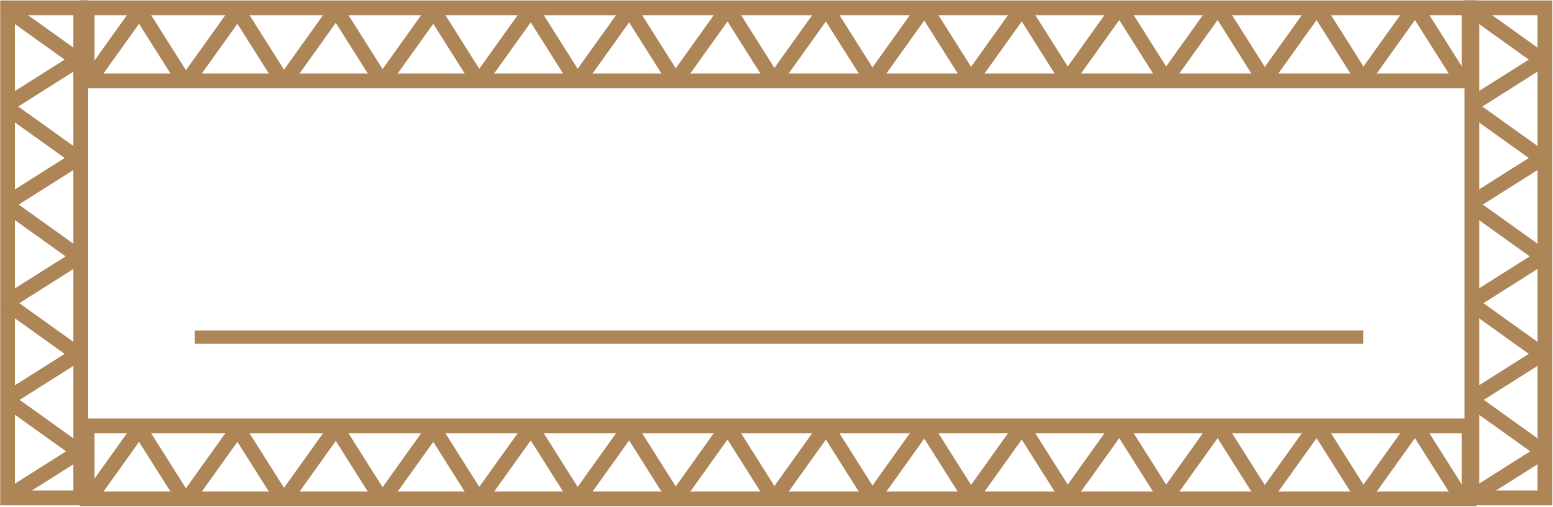
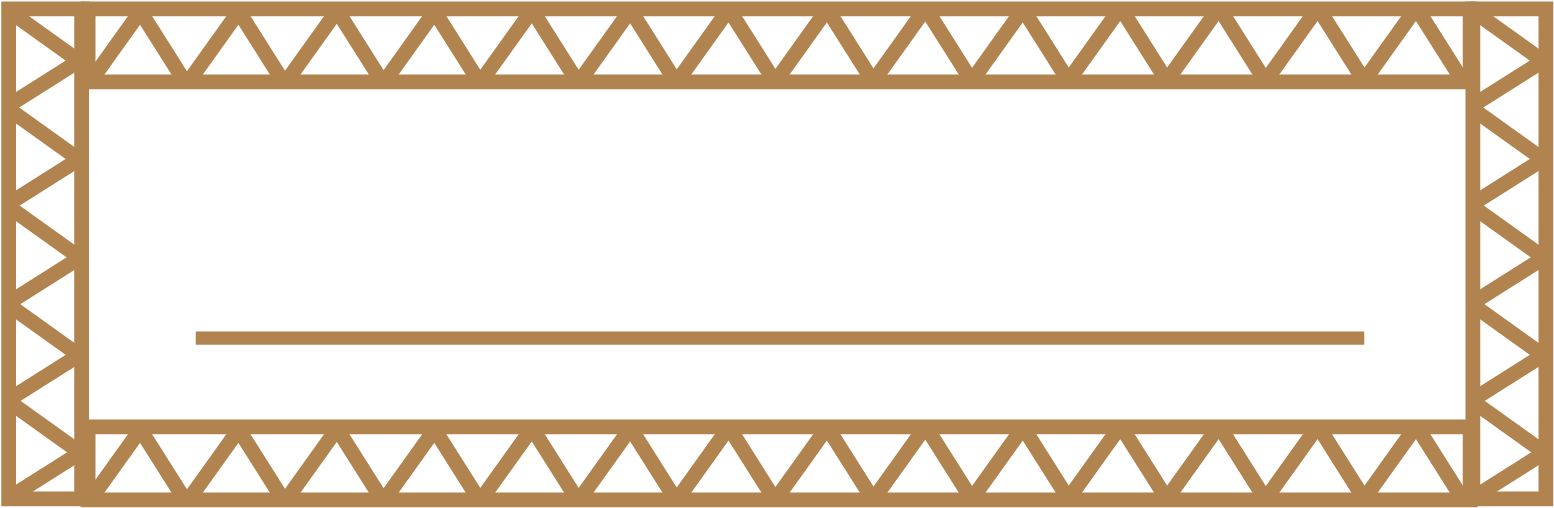
Update geral na homepage
Corrigi a homepage para que fique responsiva como o fundo do nível1

diff --git a/homepage.html b/homepage.html
@@ -13,19 +13,14 @@
 <body>
     <a href="nickname.html">
         <header class="backgroundInicial">
-            <img class="mapaInicial" id="DrtCima" src="/images/homepageCantoSupDrt.png" width="100%" height="auto"
-                alt="cantoSupDrt">
-            <img class="mapaInicial" id="DrtBaixo" src="/images/homepageCantoInfDrt.png" width="100%" height="auto"
-                alt="cantoInfDrt">
-            <img class="mapaInicial" id="EsqCima" src="/images/homepageCantoSupEsq.png" width="100%" height="auto"
-                alt="cantoSupEsq">
-            <img class="mapaInicial" id="EsqBaixo" src="/images/homepageCantoInfEsq.png" width="100%" height="auto"
-                alt="cantoInfDrt">
-            <img class="mapaInicial" id="CentroCima" src="/images/homepageCentroCima.png" width="100%" height="auto"
-                alt="centroCima">
-            <img class="mapaInicial" id="CentroBaixo" src="/images/homepageCentroBaixo.png" width="100%" height="auto"
-                alt="centroBaixo">
-            <img class="mapaInicial" src="/images/titulo.png" width="80%" height="auto" alt="fundoInicial">
+            <div class="contentor">
+                <img class="mapa" src="/images/homepage.svg">
+                <img class="mapa" id="folhas" src="/images/folhas.svg">
+                <div class="mapa" id="esq"></div>
+                <div class="mapa" id="drt"></div>
+            </div>            
+            <img class="titulo" src="/images/titulo.png">
+            
         </header>
     </a>
 </body>

diff --git a/CSS/homepage.css b/CSS/homepage.css
@@ -11,38 +11,41 @@ a {
     z-index: -2;
 }
 
-.mapaInicial{
+.contentor {
+    width: 100vw;
+    height: 100vh;
+    position: relative;
+}
+
+.mapa {
     position: absolute;
+    width: 100%;
+    height: 100%;
+    object-fit: cover;
+    background-repeat: no-repeat;
 }
 
-#DrtCima{
-    top: 0;
-    right: 0;
+#esq,
+#drt {
+    background-size: auto 100%;
+    z-index: 1;
 }
 
-#DrtBaixo{
-    bottom: 0;
-    right: 0;
-}
-
-#EsqCima{
-    top: 0;
+#esq {
     left: 0;
-    
+    background-image: url("/images/folhasEsq.svg");
+    background-position: left top;
 }
 
-#EsqBaixo{    
-    bottom: 0;
-    left: 0;
-
+#drt {
+    right: 0;
+    background-image: url("/images/folhasDrt.svg");
+    background-position: right top;
 }
 
-#CentroCima{
-    top:0;
-    z-index: -1;
-}
-
-#CentroBaixo{
-    bottom:0;
-    z-index: -1;
+.titulo {
+    position: absolute;
+    width: 90%;
+    height: auto;
+    z-index: 3;
 }

diff --git a/CSS/nickname.css b/CSS/nickname.css
@@ -43,7 +43,7 @@ form>input {
     border: none;
     font-size: 20pt;
     text-align: center;
-    color: #ad8456;
+    color: #b2834f;
     width: 100%;
     height: 100%;
 }

diff --git a/CSS/comuns.css b/CSS/comuns.css
@@ -37,5 +37,5 @@ header {
 }
 
 .backgroundColor {
-    background-color: #ad8456;
+    background-color: #b2834f;
 }
